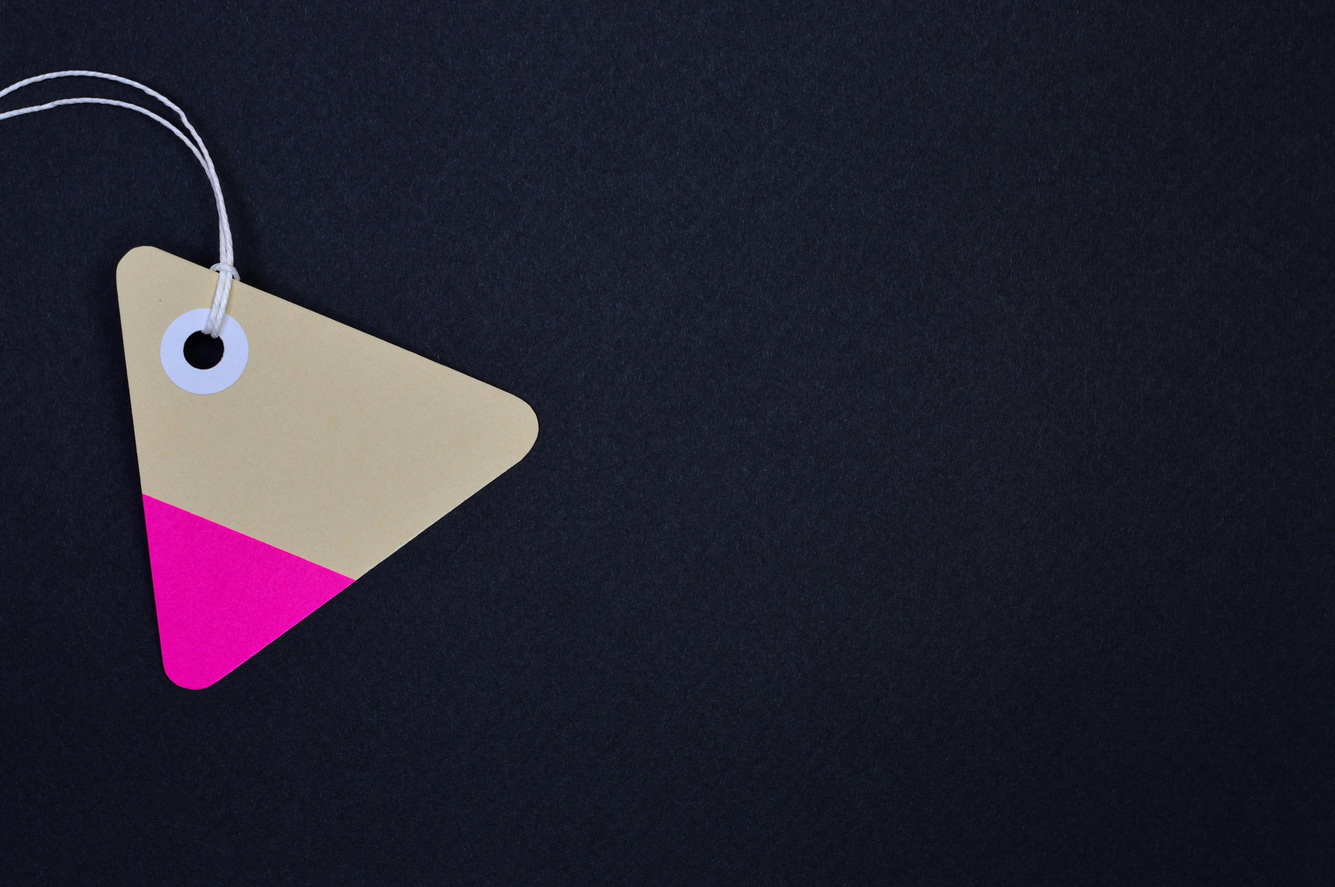
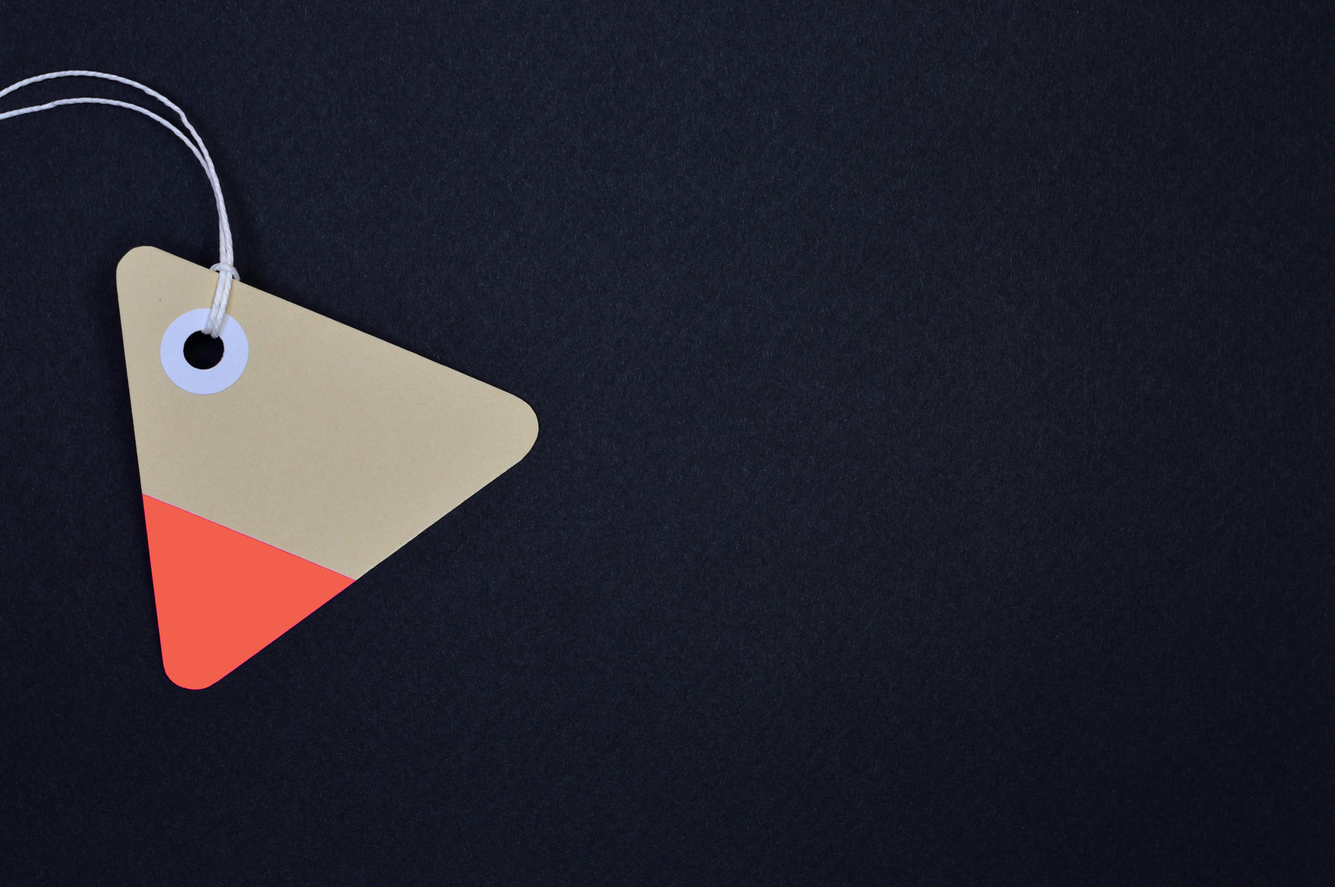
update hero text color

Changed region(s): [[0.0938, 0.5625, 0.2812, 0.7812]]

diff --git a/src/components/Hero.jsx b/src/components/Hero.jsx
@@ -11,28 +11,28 @@ const Hero = () => {
       >
         <div className="flex flex-col justify-center items-center mt-5">
           {/* the round symbol */}
-          <div className="w-5 h-5 rounded-full bg-[#915eff]" />
+          <div className="w-5 h-5 rounded-full bg-[#f25f4c]" />
           {/* the line below the symbol */}
-          <div className="w-1 sm:h-80 h-40 violet-gradient" />
+          <div className="w-1 sm:h-80 h-40 orange-gradient" />
         </div>
 
         {/* self intro paragraph */}
         <div>
           <h1 className={`${styles.heroHeadText} text-white`}>
-            Hi, I'm <span className="text-[#915eff]">Lorraine</span>
+            Hi, I'm <span className="text-[#f25f4c]">Lorraine</span>
           </h1>
           <p className={`${styles.heroSubText} mt-2 text-white-100 `}>
             Versatile{" "}
-            <span className="text-[#915eff]">Full-Stack Web Developer</span>{" "}
+            <span className="text-[#f25f4c]">Full-Stack Web Developer</span>{" "}
             with roots in biotech and medical writing.{" "}
             {/* <br className="sm:block hidden" /> */}
             Passionate about crafting transformative tech solutions{" "}
-            <span className="text-[#915eff]">
+            <span className="text-[#f25f4c]">
               from healthcare to limitless horizons.
             </span>
           </p>
 
-         {/* <a href="#contact">Let's Connect✨</a> */}
+          {/* <a href="#contact">Let's Connect✨</a> */}
         </div>
       </div>
 

diff --git a/src/index.css b/src/index.css
@@ -43,6 +43,17 @@
   );
 }
 
+.orange-gradient {
+  background: #f25f4c;
+  background: linear-gradient(-90deg, #f25f4c 0%, rgba(60, 51, 80, 0) 100%);
+  background: -webkit-linear-gradient(
+    -90deg,
+    #f25f4c 0%,
+    rgba(60, 51, 80, 0) 100%
+  );
+
+}
+
 .green-pink-gradient {
   background: "#00cea8";
   background: linear-gradient(90.13deg, #00cea8 1.9%, #bf61ff 97.5%);
